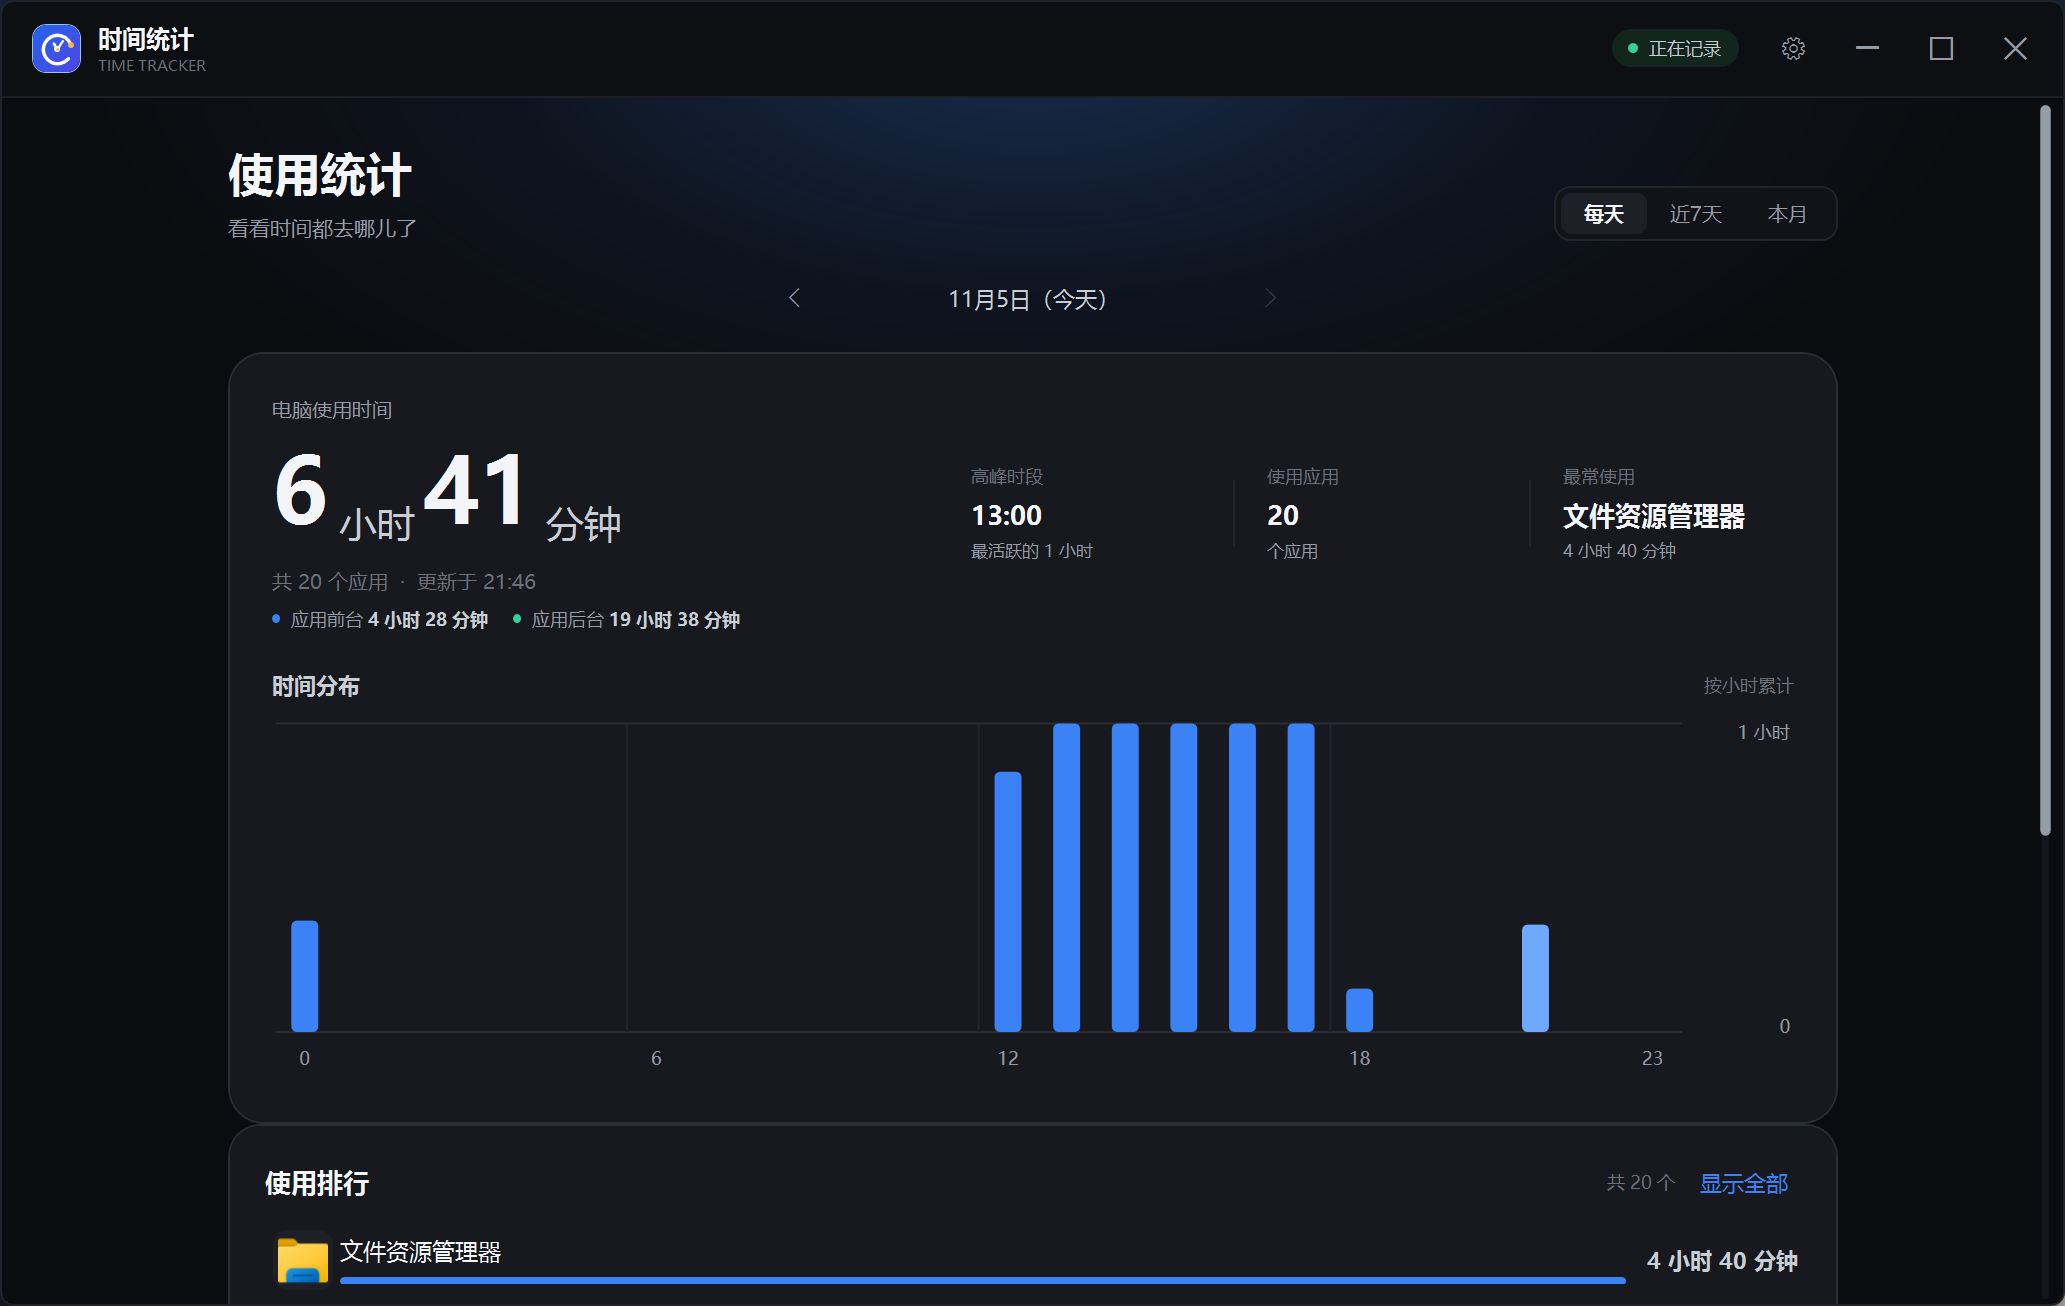
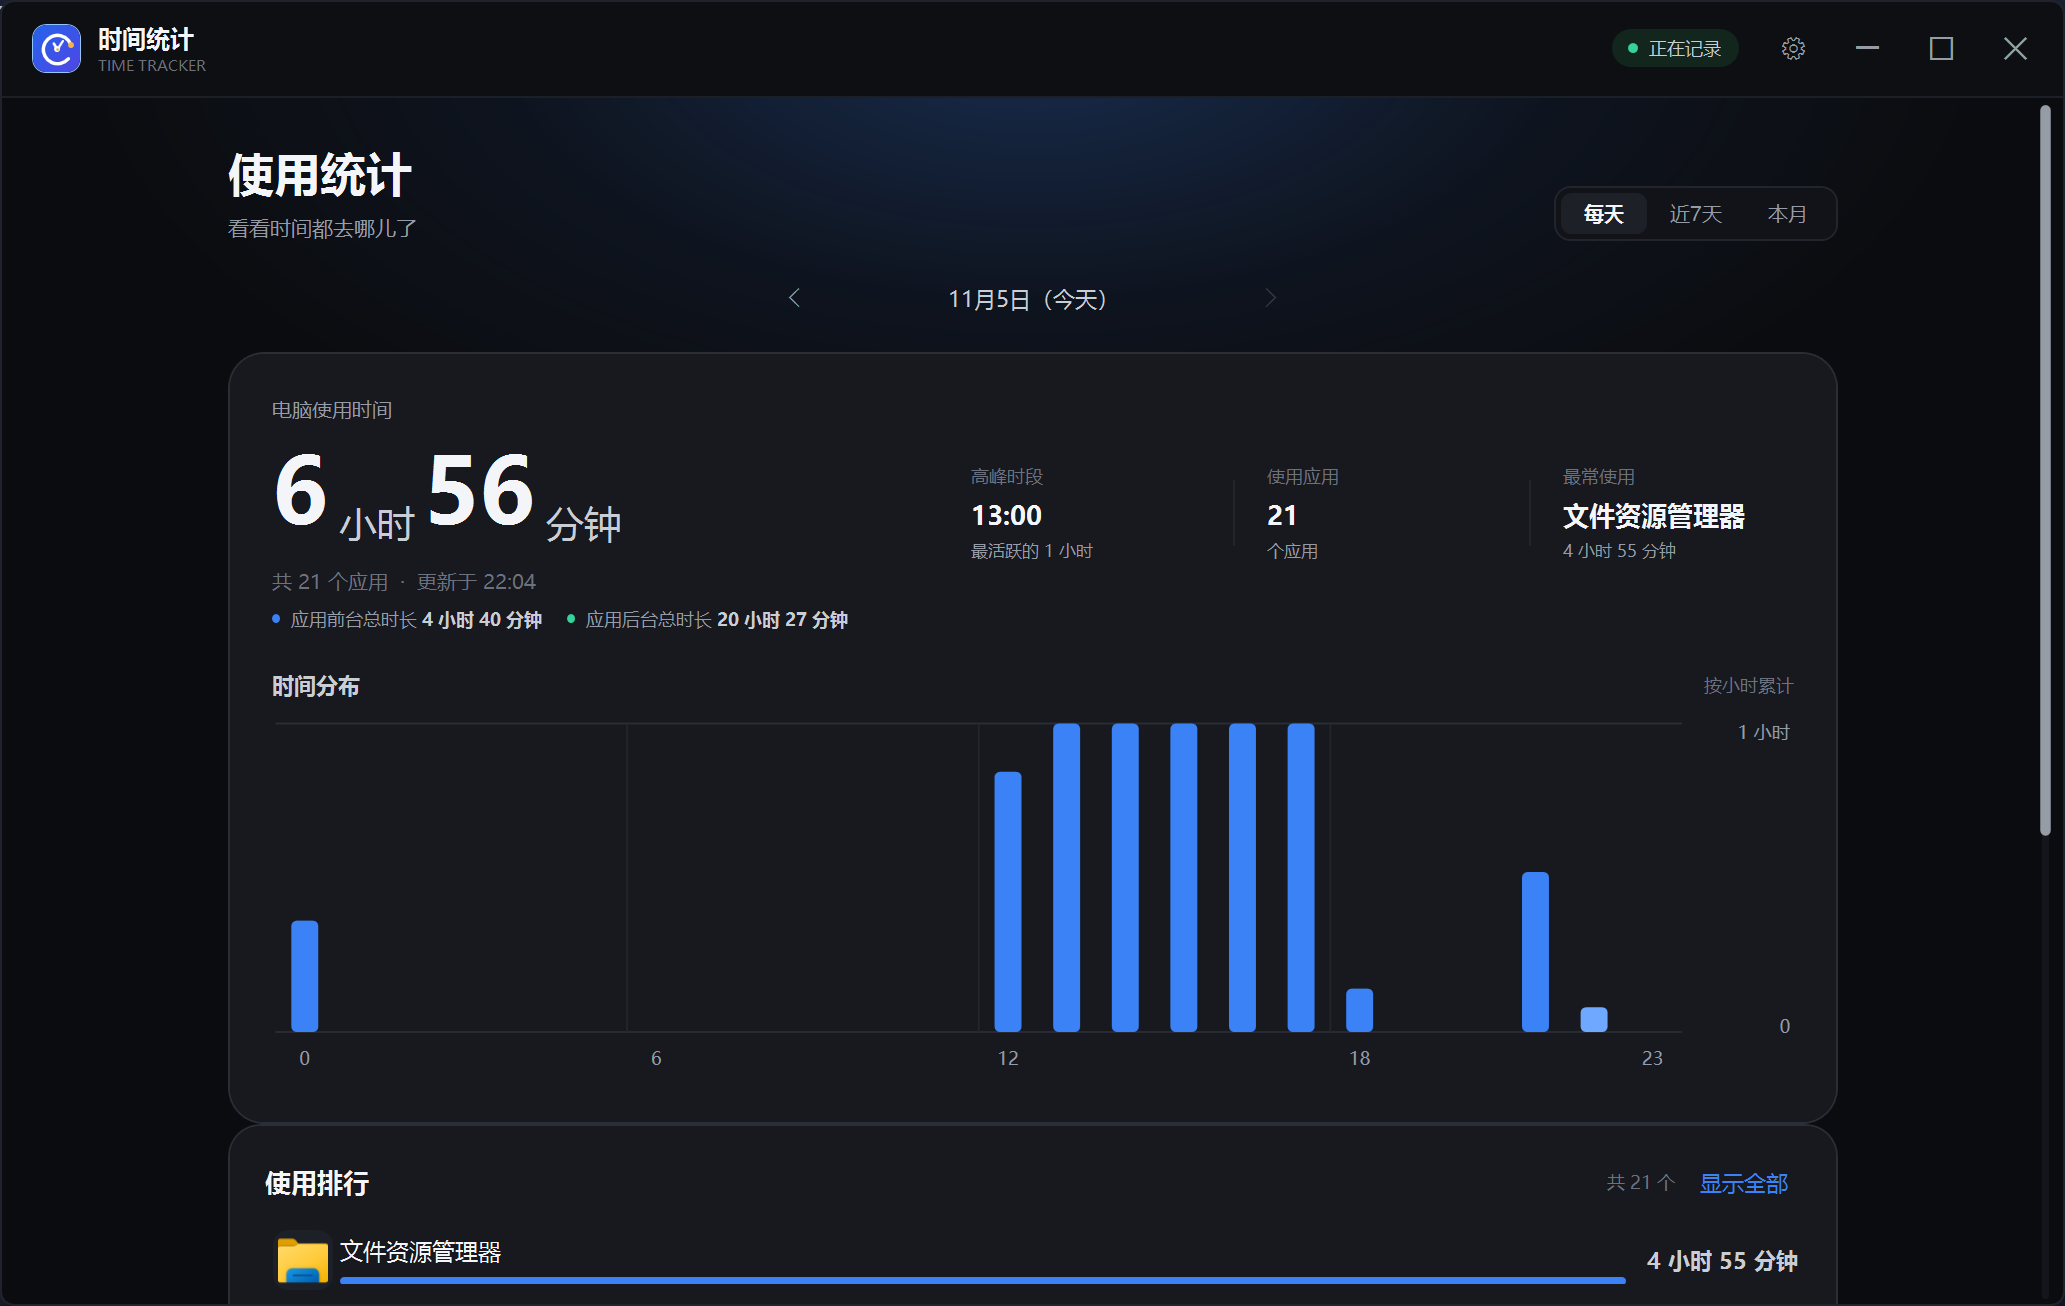
Clarify foreground and background total labels

diff --git a/src/MainWindow.cs b/src/MainWindow.cs
@@ -612,16 +612,16 @@ namespace TimeTrack
                 split.Margin = new Thickness(0, 7, 0, 0);
                 if (splitKnown > 0)
                 {
-                    split.Children.Add(SplitLegend("应用前台", Ui.Duration(data.ForegroundTotal), Ui.Accent));
+                    split.Children.Add(SplitLegend("应用前台总时长", Ui.Duration(data.ForegroundTotal), Ui.Accent));
                     split.Children.Add(Ui.TextBlock("     ", 10.5, Ui.Dim));
-                    split.Children.Add(SplitLegend("应用后台", Ui.Duration(data.BackgroundTotal), Ui.Green));
+                    split.Children.Add(SplitLegend("应用后台总时长", Ui.Duration(data.BackgroundTotal), Ui.Green));
                 }
                 if (data.UnclassifiedTotal > 0)
                 {
                     if (splitKnown > 0) split.Children.Add(Ui.TextBlock("  ·  ", 10, Ui.Dim));
                     string legacy = splitKnown > 0
-                        ? "应用历史 " + Ui.Duration(data.UnclassifiedTotal)
-                        : "应用历史未区分前后台（" + Ui.Duration(data.UnclassifiedTotal) + "）";
+                        ? "应用历史总时长 " + Ui.Duration(data.UnclassifiedTotal)
+                        : "应用历史总时长（未区分前后台） " + Ui.Duration(data.UnclassifiedTotal);
                     split.Children.Add(Ui.TextBlock(legacy, 10, Ui.Dim));
                 }
                 left.Children.Add(split);
@@ -1601,7 +1601,7 @@ namespace TimeTrack
 
             StackPanel about = new StackPanel();
             about.Margin = new Thickness(18, 15, 18, 18);
-            TextBlock aboutTitle = Ui.TextBlock("时间统计 1.4.0", 12, Ui.TextSoft, FontWeights.Medium);
+            TextBlock aboutTitle = Ui.TextBlock("时间统计 1.4.1", 12, Ui.TextSoft, FontWeights.Medium);
             about.Children.Add(aboutTitle);
             TextBlock aboutText = Ui.TextBlock("只在本地记录，不联网、不上传任何数据。", 10.5, Ui.Dim);
             aboutText.Margin = new Thickness(0, 4, 0, 0);

diff --git a/src/AssemblyInfo.cs b/src/AssemblyInfo.cs
@@ -8,5 +8,5 @@ using System.Runtime.InteropServices;
 [assembly: AssemblyCopyright("Copyright © 2026")]
 [assembly: ComVisible(false)]
 [assembly: Guid("8f3c1c6e-7e5a-4b9d-9f2a-3b7c1d5e6a41")]
-[assembly: AssemblyVersion("1.4.0.0")]
-[assembly: AssemblyFileVersion("1.4.0.0")]
+[assembly: AssemblyVersion("1.4.1.0")]
+[assembly: AssemblyFileVersion("1.4.1.0")]

diff --git a/CHANGELOG.md b/CHANGELOG.md
@@ -1,5 +1,11 @@
 # Changelog
 
+## v1.4.1 — 2026-11-05
+
+### 改进
+
+- 统计页拆分标签改为「应用前台总时长 / 应用后台总时长 / 应用历史总时长」，避免被误读为单次或单个应用的时长。
+
 ## v1.4.0 — 2026-11-05
 
 ### 新增
